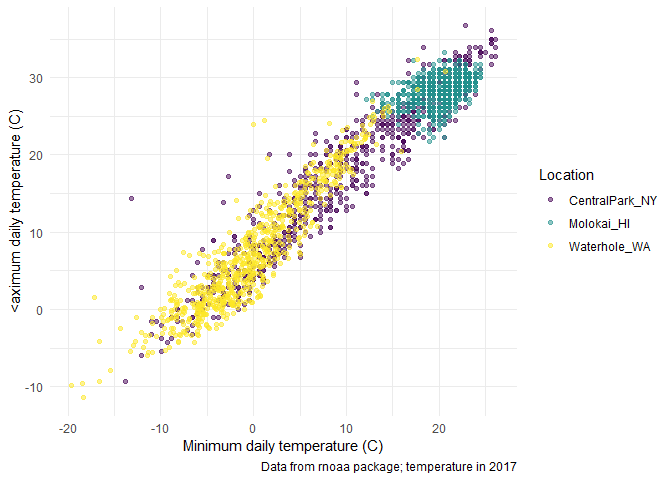
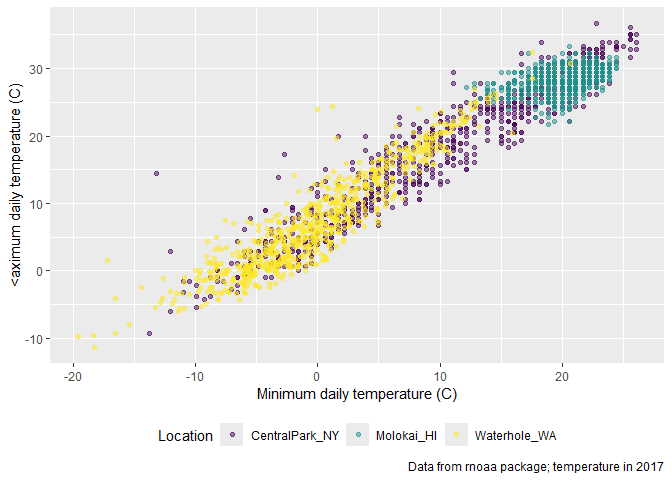
data args in geoms

diff --git a/viz_2.md b/viz_2.md
@@ -199,11 +199,356 @@ weather_df %>%
   viridis::scale_color_viridis(
     name = "Location", 
     discrete = TRUE) + 
-  #get rid of frame line
-  theme_minimal()
+  theme(legend.position = "bottom")
 ```
 
     ## Warning: Removed 17 rows containing missing values or values outside the scale range
     ## (`geom_point()`).
 
 ![](viz_2_files/figure-gfm/unnamed-chunk-8-1.png)<!-- -->
+
+``` r
+  #get rid of frame line
+  theme_minimal()
+```
+
+    ## List of 136
+    ##  $ line                            :List of 6
+    ##   ..$ colour       : chr "black"
+    ##   ..$ linewidth    : num 0.5
+    ##   ..$ linetype     : num 1
+    ##   ..$ lineend      : chr "butt"
+    ##   ..$ arrow        : logi FALSE
+    ##   ..$ inherit.blank: logi TRUE
+    ##   ..- attr(*, "class")= chr [1:2] "element_line" "element"
+    ##  $ rect                            :List of 5
+    ##   ..$ fill         : chr "white"
+    ##   ..$ colour       : chr "black"
+    ##   ..$ linewidth    : num 0.5
+    ##   ..$ linetype     : num 1
+    ##   ..$ inherit.blank: logi TRUE
+    ##   ..- attr(*, "class")= chr [1:2] "element_rect" "element"
+    ##  $ text                            :List of 11
+    ##   ..$ family       : chr ""
+    ##   ..$ face         : chr "plain"
+    ##   ..$ colour       : chr "black"
+    ##   ..$ size         : num 11
+    ##   ..$ hjust        : num 0.5
+    ##   ..$ vjust        : num 0.5
+    ##   ..$ angle        : num 0
+    ##   ..$ lineheight   : num 0.9
+    ##   ..$ margin       : 'margin' num [1:4] 0points 0points 0points 0points
+    ##   .. ..- attr(*, "unit")= int 8
+    ##   ..$ debug        : logi FALSE
+    ##   ..$ inherit.blank: logi TRUE
+    ##   ..- attr(*, "class")= chr [1:2] "element_text" "element"
+    ##  $ title                           : NULL
+    ##  $ aspect.ratio                    : NULL
+    ##  $ axis.title                      : NULL
+    ##  $ axis.title.x                    :List of 11
+    ##   ..$ family       : NULL
+    ##   ..$ face         : NULL
+    ##   ..$ colour       : NULL
+    ##   ..$ size         : NULL
+    ##   ..$ hjust        : NULL
+    ##   ..$ vjust        : num 1
+    ##   ..$ angle        : NULL
+    ##   ..$ lineheight   : NULL
+    ##   ..$ margin       : 'margin' num [1:4] 2.75points 0points 0points 0points
+    ##   .. ..- attr(*, "unit")= int 8
+    ##   ..$ debug        : NULL
+    ##   ..$ inherit.blank: logi TRUE
+    ##   ..- attr(*, "class")= chr [1:2] "element_text" "element"
+    ##  $ axis.title.x.top                :List of 11
+    ##   ..$ family       : NULL
+    ##   ..$ face         : NULL
+    ##   ..$ colour       : NULL
+    ##   ..$ size         : NULL
+    ##   ..$ hjust        : NULL
+    ##   ..$ vjust        : num 0
+    ##   ..$ angle        : NULL
+    ##   ..$ lineheight   : NULL
+    ##   ..$ margin       : 'margin' num [1:4] 0points 0points 2.75points 0points
+    ##   .. ..- attr(*, "unit")= int 8
+    ##   ..$ debug        : NULL
+    ##   ..$ inherit.blank: logi TRUE
+    ##   ..- attr(*, "class")= chr [1:2] "element_text" "element"
+    ##  $ axis.title.x.bottom             : NULL
+    ##  $ axis.title.y                    :List of 11
+    ##   ..$ family       : NULL
+    ##   ..$ face         : NULL
+    ##   ..$ colour       : NULL
+    ##   ..$ size         : NULL
+    ##   ..$ hjust        : NULL
+    ##   ..$ vjust        : num 1
+    ##   ..$ angle        : num 90
+    ##   ..$ lineheight   : NULL
+    ##   ..$ margin       : 'margin' num [1:4] 0points 2.75points 0points 0points
+    ##   .. ..- attr(*, "unit")= int 8
+    ##   ..$ debug        : NULL
+    ##   ..$ inherit.blank: logi TRUE
+    ##   ..- attr(*, "class")= chr [1:2] "element_text" "element"
+    ##  $ axis.title.y.left               : NULL
+    ##  $ axis.title.y.right              :List of 11
+    ##   ..$ family       : NULL
+    ##   ..$ face         : NULL
+    ##   ..$ colour       : NULL
+    ##   ..$ size         : NULL
+    ##   ..$ hjust        : NULL
+    ##   ..$ vjust        : num 1
+    ##   ..$ angle        : num -90
+    ##   ..$ lineheight   : NULL
+    ##   ..$ margin       : 'margin' num [1:4] 0points 0points 0points 2.75points
+    ##   .. ..- attr(*, "unit")= int 8
+    ##   ..$ debug        : NULL
+    ##   ..$ inherit.blank: logi TRUE
+    ##   ..- attr(*, "class")= chr [1:2] "element_text" "element"
+    ##  $ axis.text                       :List of 11
+    ##   ..$ family       : NULL
+    ##   ..$ face         : NULL
+    ##   ..$ colour       : chr "grey30"
+    ##   ..$ size         : 'rel' num 0.8
+    ##   ..$ hjust        : NULL
+    ##   ..$ vjust        : NULL
+    ##   ..$ angle        : NULL
+    ##   ..$ lineheight   : NULL
+    ##   ..$ margin       : NULL
+    ##   ..$ debug        : NULL
+    ##   ..$ inherit.blank: logi TRUE
+    ##   ..- attr(*, "class")= chr [1:2] "element_text" "element"
+    ##  $ axis.text.x                     :List of 11
+    ##   ..$ family       : NULL
+    ##   ..$ face         : NULL
+    ##   ..$ colour       : NULL
+    ##   ..$ size         : NULL
+    ##   ..$ hjust        : NULL
+    ##   ..$ vjust        : num 1
+    ##   ..$ angle        : NULL
+    ##   ..$ lineheight   : NULL
+    ##   ..$ margin       : 'margin' num [1:4] 2.2points 0points 0points 0points
+    ##   .. ..- attr(*, "unit")= int 8
+    ##   ..$ debug        : NULL
+    ##   ..$ inherit.blank: logi TRUE
+    ##   ..- attr(*, "class")= chr [1:2] "element_text" "element"
+    ##  $ axis.text.x.top                 :List of 11
+    ##   ..$ family       : NULL
+    ##   ..$ face         : NULL
+    ##   ..$ colour       : NULL
+    ##   ..$ size         : NULL
+    ##   ..$ hjust        : NULL
+    ##   ..$ vjust        : num 0
+    ##   ..$ angle        : NULL
+    ##   ..$ lineheight   : NULL
+    ##   ..$ margin       : 'margin' num [1:4] 0points 0points 2.2points 0points
+    ##   .. ..- attr(*, "unit")= int 8
+    ##   ..$ debug        : NULL
+    ##   ..$ inherit.blank: logi TRUE
+    ##   ..- attr(*, "class")= chr [1:2] "element_text" "element"
+    ##  $ axis.text.x.bottom              : NULL
+    ##  $ axis.text.y                     :List of 11
+    ##   ..$ family       : NULL
+    ##   ..$ face         : NULL
+    ##   ..$ colour       : NULL
+    ##   ..$ size         : NULL
+    ##   ..$ hjust        : num 1
+    ##   ..$ vjust        : NULL
+    ##   ..$ angle        : NULL
+    ##   ..$ lineheight   : NULL
+    ##   ..$ margin       : 'margin' num [1:4] 0points 2.2points 0points 0points
+    ##   .. ..- attr(*, "unit")= int 8
+    ##   ..$ debug        : NULL
+    ##   ..$ inherit.blank: logi TRUE
+    ##   ..- attr(*, "class")= chr [1:2] "element_text" "element"
+    ##  $ axis.text.y.left                : NULL
+    ##  $ axis.text.y.right               :List of 11
+    ##   ..$ family       : NULL
+    ##   ..$ face         : NULL
+    ##   ..$ colour       : NULL
+    ##   ..$ size         : NULL
+    ##   ..$ hjust        : num 0
+    ##   ..$ vjust        : NULL
+    ##   ..$ angle        : NULL
+    ##   ..$ lineheight   : NULL
+    ##   ..$ margin       : 'margin' num [1:4] 0points 0points 0points 2.2points
+    ##   .. ..- attr(*, "unit")= int 8
+    ##   ..$ debug        : NULL
+    ##   ..$ inherit.blank: logi TRUE
+    ##   ..- attr(*, "class")= chr [1:2] "element_text" "element"
+    ##  $ axis.text.theta                 : NULL
+    ##  $ axis.text.r                     :List of 11
+    ##   ..$ family       : NULL
+    ##   ..$ face         : NULL
+    ##   ..$ colour       : NULL
+    ##   ..$ size         : NULL
+    ##   ..$ hjust        : num 0.5
+    ##   ..$ vjust        : NULL
+    ##   ..$ angle        : NULL
+    ##   ..$ lineheight   : NULL
+    ##   ..$ margin       : 'margin' num [1:4] 0points 2.2points 0points 2.2points
+    ##   .. ..- attr(*, "unit")= int 8
+    ##   ..$ debug        : NULL
+    ##   ..$ inherit.blank: logi TRUE
+    ##   ..- attr(*, "class")= chr [1:2] "element_text" "element"
+    ##  $ axis.ticks                      : list()
+    ##   ..- attr(*, "class")= chr [1:2] "element_blank" "element"
+    ##  $ axis.ticks.x                    : NULL
+    ##  $ axis.ticks.x.top                : NULL
+    ##  $ axis.ticks.x.bottom             : NULL
+    ##  $ axis.ticks.y                    : NULL
+    ##  $ axis.ticks.y.left               : NULL
+    ##  $ axis.ticks.y.right              : NULL
+    ##  $ axis.ticks.theta                : NULL
+    ##  $ axis.ticks.r                    : NULL
+    ##  $ axis.minor.ticks.x.top          : NULL
+    ##  $ axis.minor.ticks.x.bottom       : NULL
+    ##  $ axis.minor.ticks.y.left         : NULL
+    ##  $ axis.minor.ticks.y.right        : NULL
+    ##  $ axis.minor.ticks.theta          : NULL
+    ##  $ axis.minor.ticks.r              : NULL
+    ##  $ axis.ticks.length               : 'simpleUnit' num 2.75points
+    ##   ..- attr(*, "unit")= int 8
+    ##  $ axis.ticks.length.x             : NULL
+    ##  $ axis.ticks.length.x.top         : NULL
+    ##  $ axis.ticks.length.x.bottom      : NULL
+    ##  $ axis.ticks.length.y             : NULL
+    ##  $ axis.ticks.length.y.left        : NULL
+    ##  $ axis.ticks.length.y.right       : NULL
+    ##  $ axis.ticks.length.theta         : NULL
+    ##  $ axis.ticks.length.r             : NULL
+    ##  $ axis.minor.ticks.length         : 'rel' num 0.75
+    ##  $ axis.minor.ticks.length.x       : NULL
+    ##  $ axis.minor.ticks.length.x.top   : NULL
+    ##  $ axis.minor.ticks.length.x.bottom: NULL
+    ##  $ axis.minor.ticks.length.y       : NULL
+    ##  $ axis.minor.ticks.length.y.left  : NULL
+    ##  $ axis.minor.ticks.length.y.right : NULL
+    ##  $ axis.minor.ticks.length.theta   : NULL
+    ##  $ axis.minor.ticks.length.r       : NULL
+    ##  $ axis.line                       : list()
+    ##   ..- attr(*, "class")= chr [1:2] "element_blank" "element"
+    ##  $ axis.line.x                     : NULL
+    ##  $ axis.line.x.top                 : NULL
+    ##  $ axis.line.x.bottom              : NULL
+    ##  $ axis.line.y                     : NULL
+    ##  $ axis.line.y.left                : NULL
+    ##  $ axis.line.y.right               : NULL
+    ##  $ axis.line.theta                 : NULL
+    ##  $ axis.line.r                     : NULL
+    ##  $ legend.background               : list()
+    ##   ..- attr(*, "class")= chr [1:2] "element_blank" "element"
+    ##  $ legend.margin                   : 'margin' num [1:4] 5.5points 5.5points 5.5points 5.5points
+    ##   ..- attr(*, "unit")= int 8
+    ##  $ legend.spacing                  : 'simpleUnit' num 11points
+    ##   ..- attr(*, "unit")= int 8
+    ##  $ legend.spacing.x                : NULL
+    ##  $ legend.spacing.y                : NULL
+    ##  $ legend.key                      : list()
+    ##   ..- attr(*, "class")= chr [1:2] "element_blank" "element"
+    ##  $ legend.key.size                 : 'simpleUnit' num 1.2lines
+    ##   ..- attr(*, "unit")= int 3
+    ##  $ legend.key.height               : NULL
+    ##  $ legend.key.width                : NULL
+    ##  $ legend.key.spacing              : 'simpleUnit' num 5.5points
+    ##   ..- attr(*, "unit")= int 8
+    ##  $ legend.key.spacing.x            : NULL
+    ##  $ legend.key.spacing.y            : NULL
+    ##  $ legend.frame                    : NULL
+    ##  $ legend.ticks                    : NULL
+    ##  $ legend.ticks.length             : 'rel' num 0.2
+    ##  $ legend.axis.line                : NULL
+    ##  $ legend.text                     :List of 11
+    ##   ..$ family       : NULL
+    ##   ..$ face         : NULL
+    ##   ..$ colour       : NULL
+    ##   ..$ size         : 'rel' num 0.8
+    ##   ..$ hjust        : NULL
+    ##   ..$ vjust        : NULL
+    ##   ..$ angle        : NULL
+    ##   ..$ lineheight   : NULL
+    ##   ..$ margin       : NULL
+    ##   ..$ debug        : NULL
+    ##   ..$ inherit.blank: logi TRUE
+    ##   ..- attr(*, "class")= chr [1:2] "element_text" "element"
+    ##  $ legend.text.position            : NULL
+    ##  $ legend.title                    :List of 11
+    ##   ..$ family       : NULL
+    ##   ..$ face         : NULL
+    ##   ..$ colour       : NULL
+    ##   ..$ size         : NULL
+    ##   ..$ hjust        : num 0
+    ##   ..$ vjust        : NULL
+    ##   ..$ angle        : NULL
+    ##   ..$ lineheight   : NULL
+    ##   ..$ margin       : NULL
+    ##   ..$ debug        : NULL
+    ##   ..$ inherit.blank: logi TRUE
+    ##   ..- attr(*, "class")= chr [1:2] "element_text" "element"
+    ##  $ legend.title.position           : NULL
+    ##  $ legend.position                 : chr "right"
+    ##  $ legend.position.inside          : NULL
+    ##  $ legend.direction                : NULL
+    ##  $ legend.byrow                    : NULL
+    ##  $ legend.justification            : chr "center"
+    ##  $ legend.justification.top        : NULL
+    ##  $ legend.justification.bottom     : NULL
+    ##  $ legend.justification.left       : NULL
+    ##  $ legend.justification.right      : NULL
+    ##  $ legend.justification.inside     : NULL
+    ##  $ legend.location                 : NULL
+    ##  $ legend.box                      : NULL
+    ##  $ legend.box.just                 : NULL
+    ##  $ legend.box.margin               : 'margin' num [1:4] 0cm 0cm 0cm 0cm
+    ##   ..- attr(*, "unit")= int 1
+    ##  $ legend.box.background           : list()
+    ##   ..- attr(*, "class")= chr [1:2] "element_blank" "element"
+    ##  $ legend.box.spacing              : 'simpleUnit' num 11points
+    ##   ..- attr(*, "unit")= int 8
+    ##   [list output truncated]
+    ##  - attr(*, "class")= chr [1:2] "theme" "gg"
+    ##  - attr(*, "complete")= logi TRUE
+    ##  - attr(*, "validate")= logi TRUE
+
+``` r
+# here since the "theme_minimal()" comes after theme(legend.position), the previous theme() is covered by the last theme_minimal().
+```
+
+## setting options
+
+``` r
+library(tidyverse)
+
+
+knitr::opts_chunk$set(
+  fig.width = 6, 
+  fig.asp = .6, 
+  out. width = "90%"
+)
+
+theme_set(them_minimal() + theme(legend.position = "bottom"))
+
+options(
+  ggplot2.continuous.colour = "viridis", 
+  ggplot2.continuous.fill = "viridis"
+)
+
+scale_colour_discrete = scale_color_viridis_d
+scale_fill_discrete = scale_fill_viridis_d
+```
+
+## data args in “geom”
+
+``` r
+central_park = 
+  weather_df %>% 
+  filter(name == "CentralPark_NY")
+
+waikiki = 
+  weather_df %>% 
+  filter(name == "Waikiki_HA")
+
+ggplot(data = waikiki, aes(x = date, y = tmax, color = name)) +
+  geom_point() +
+  geom_line(data = central_park)
+```
+
+![](viz_2_files/figure-gfm/unnamed-chunk-10-1.png)<!-- -->
